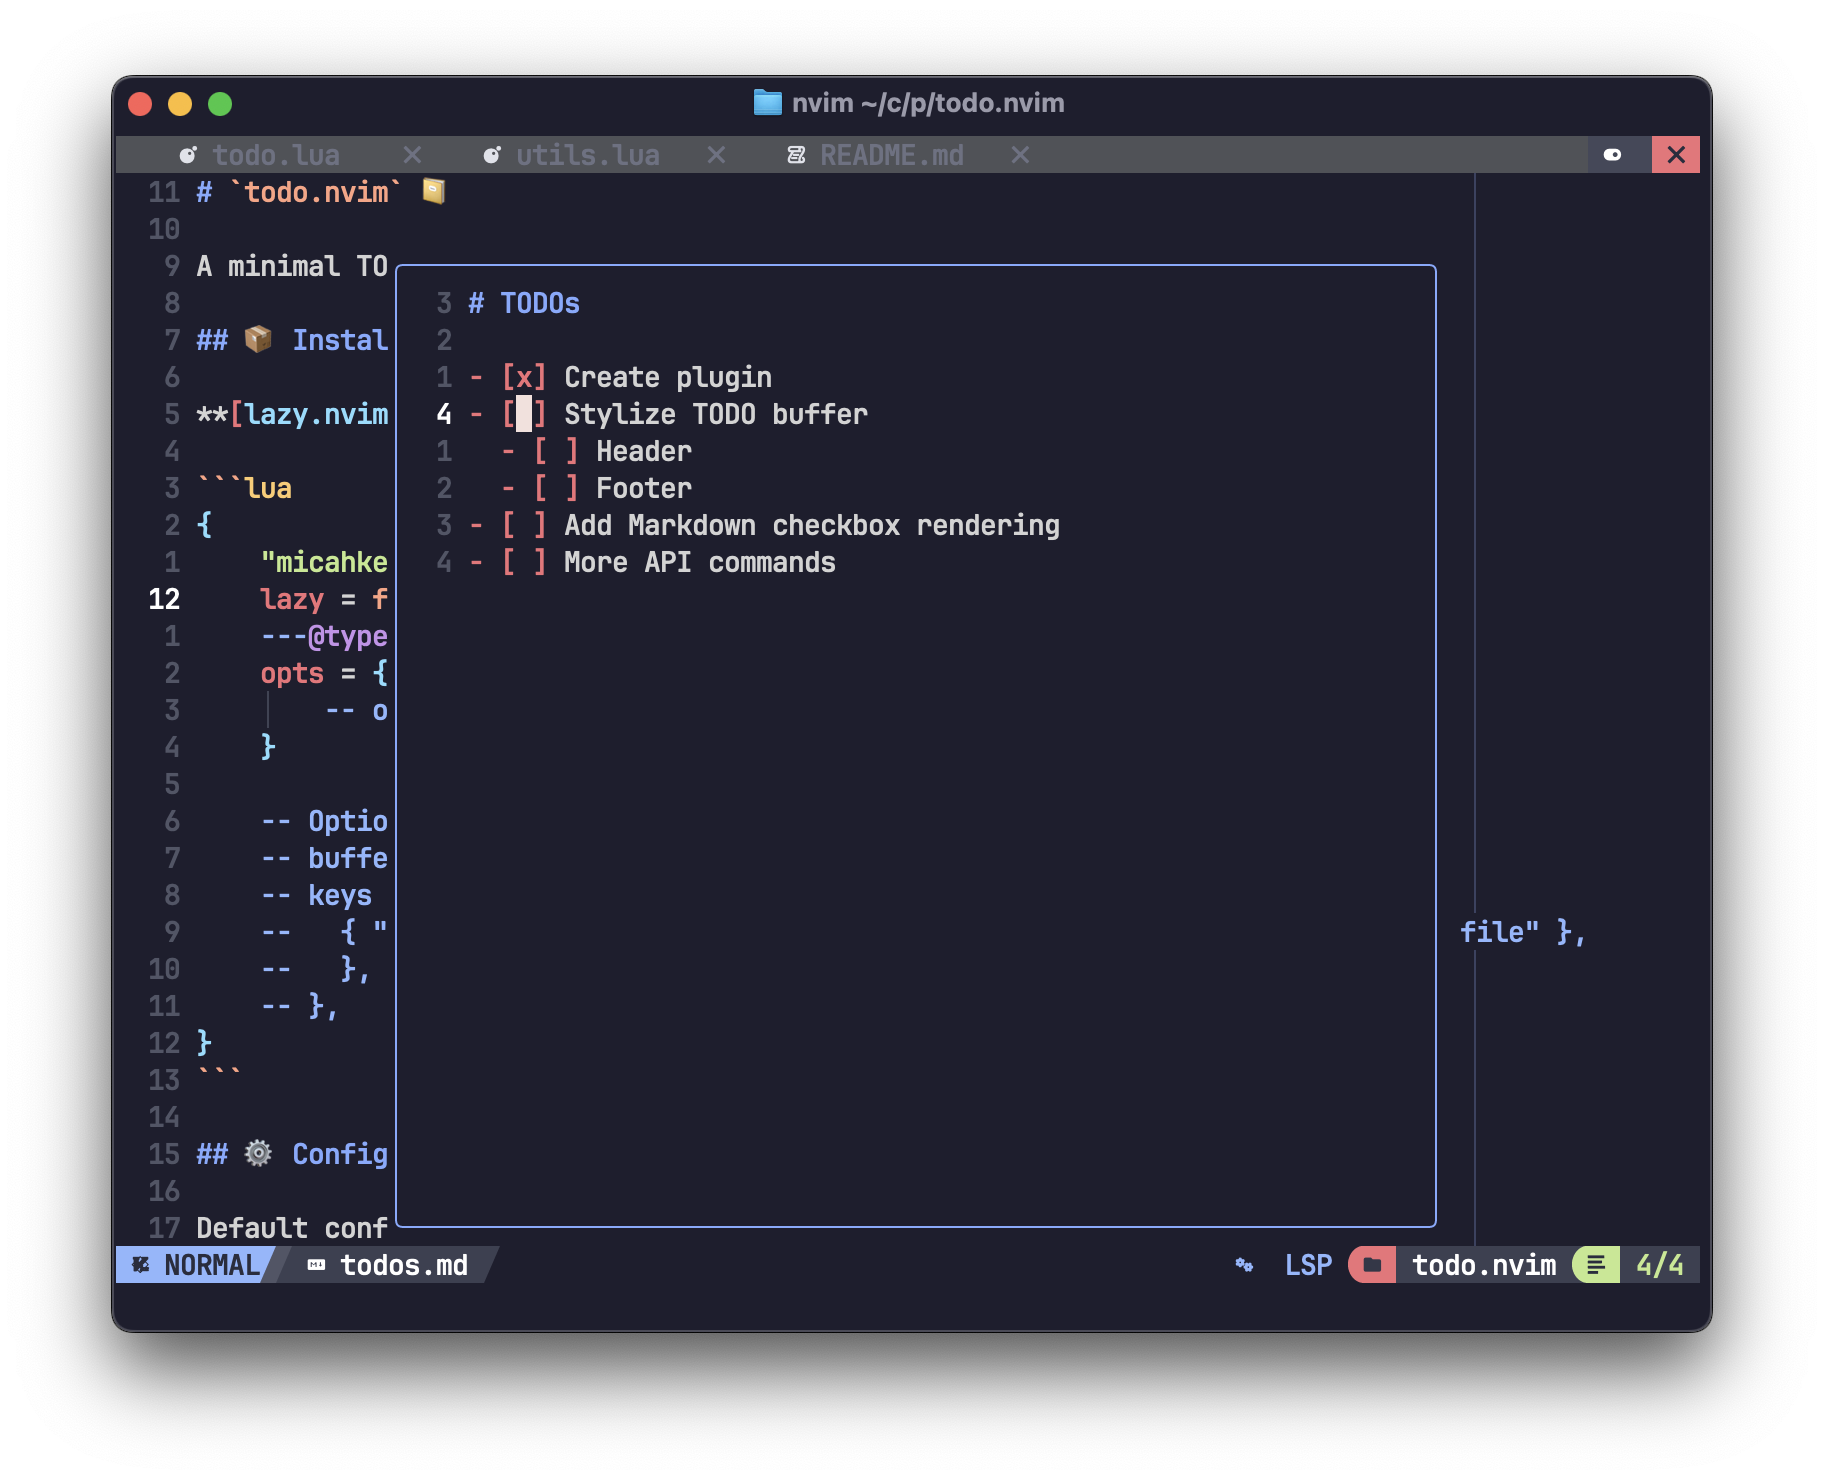
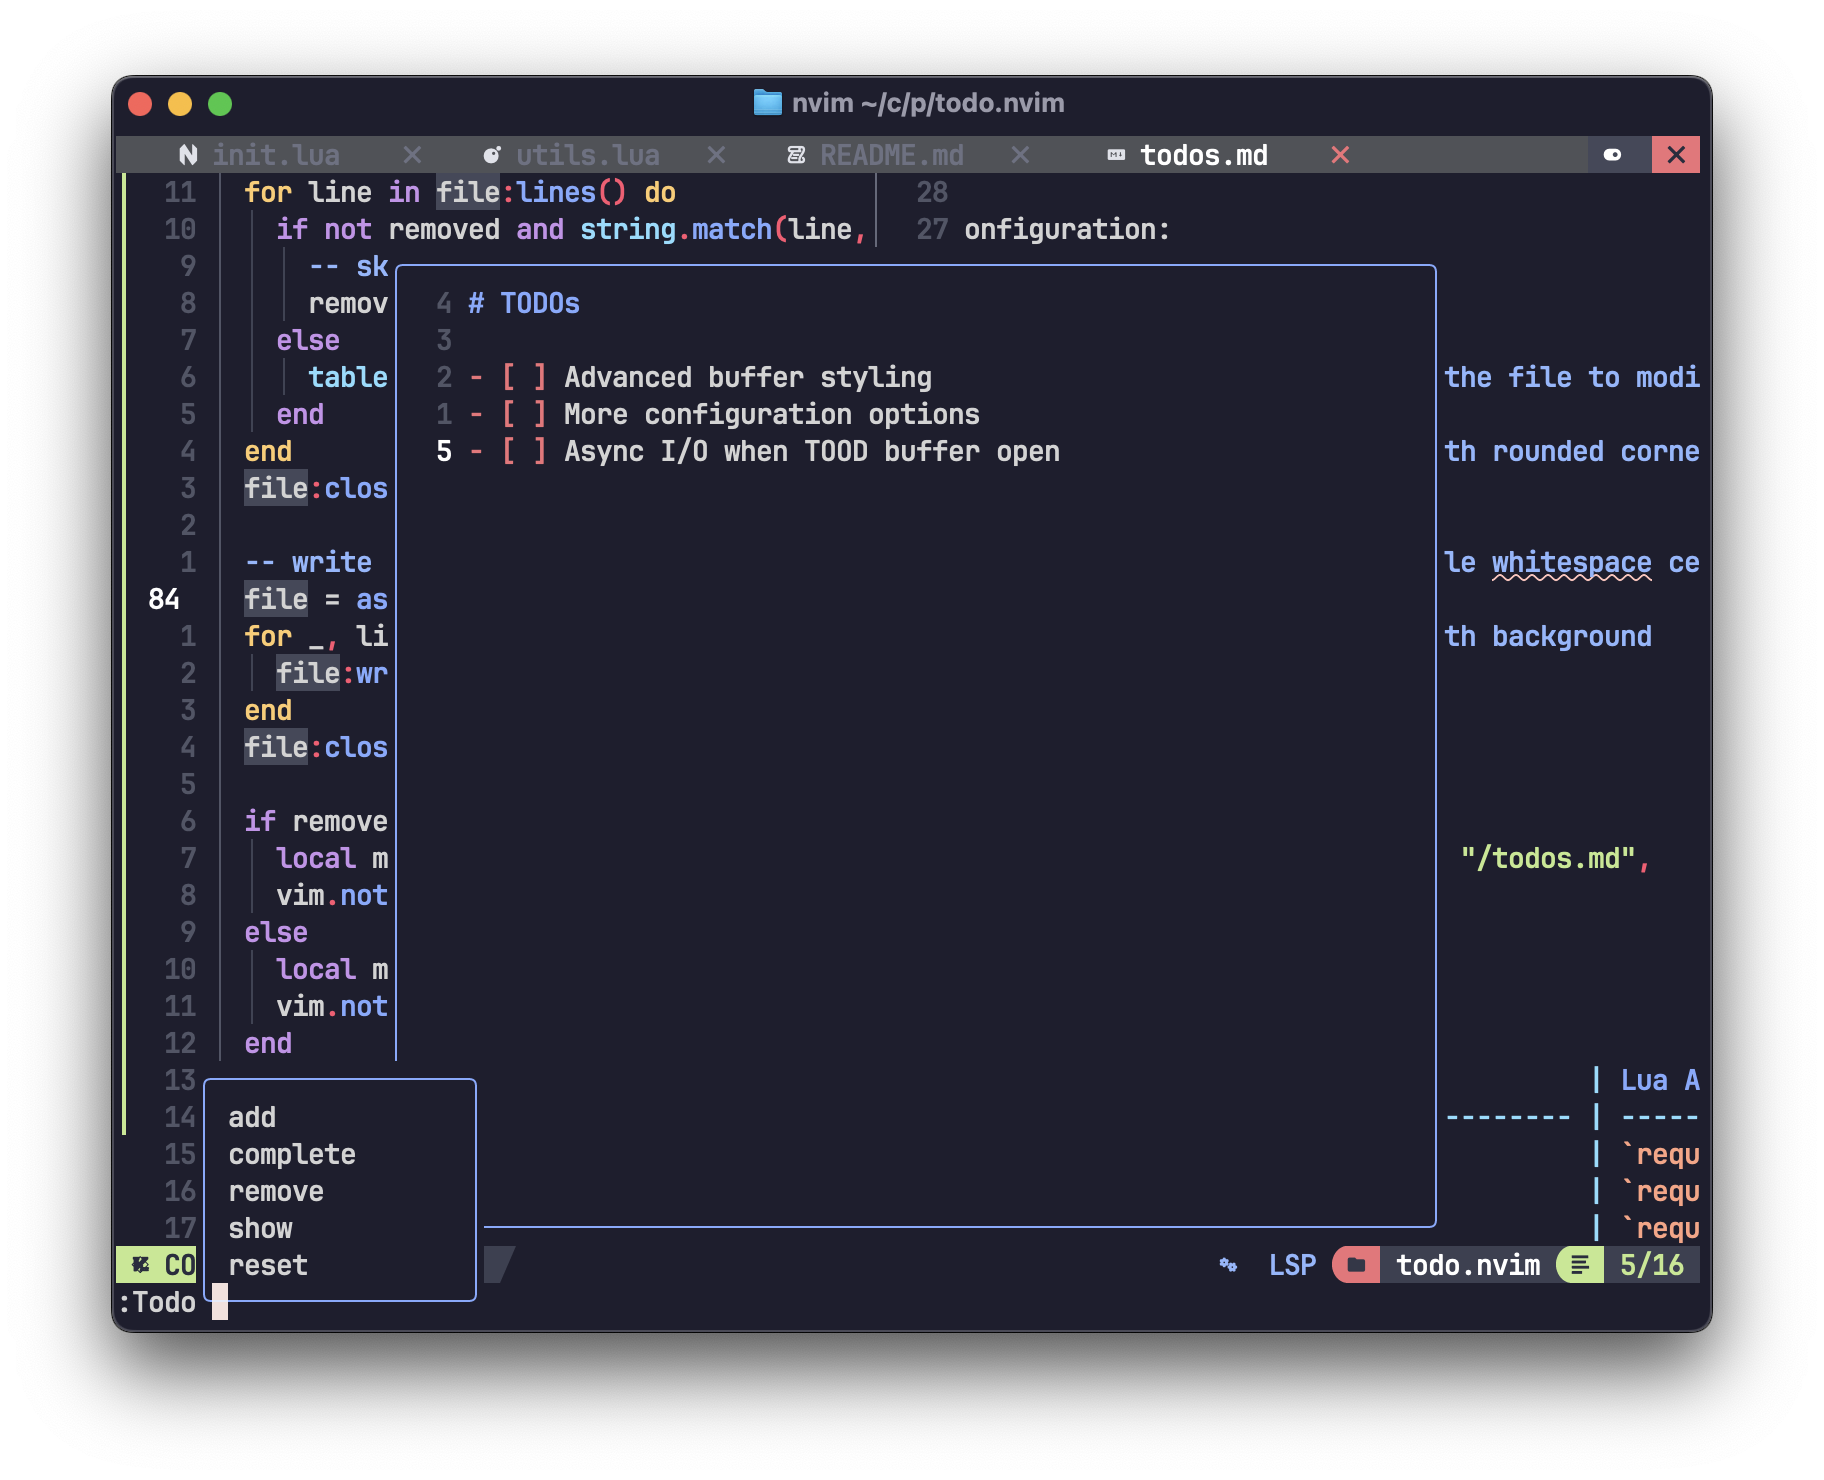
feat(commands): Add `remove`, `complete`; refactor `add` and `clear-> reset`

diff --git a/README.md b/README.md
@@ -54,22 +54,27 @@ local config = {
 
 ## ✍ Usage
 
-| Command                                   | Lua API                   | Description                                    |
-| ----------------------------------------- | ------------------------- | ---------------------------------------------- |
-| `:Todo` or `:Todo open`                   | `require("todo").open()`  | Opens your TODO buffer                         |
-| `:Todo add`                               | `require("todo").add()`   | Add prompt item to list                        |
-| `:Todo show [completed \| undone \| all]` | `require("todo").show()`  | Print out TODOs, optionally filtering by state |
-| `:Todo clear`                             | `require("todo").clear()` | Clears all TODOs from the file                 |
+| Command                                       | Lua API                      | Description                                               |
+| --------------------------------------------- | ---------------------------- | --------------------------------------------------------- |
+| `:Todo`                                       | `require("todo").open()`     | Opens your TODO buffer                                    |
+| `:Todo add <desc>`                            | `require("todo").add()`      | Add TODO item to list                                     |
+| `:Todo remove <desc>`                         | `require("todo").remove()`   | Remote TODO item to list                                  |
+| `:Todo complete <desc>`                       | `require("todo").complete()` | Mark the item with the given description as complete      |
+| `:Todo show [completed \| incomplete \| all]` | `require("todo").show()`     | Notification list of TODOs, optionally filtering by state |
+| `:Todo reset`                                 | `require("todo").reset()`    | Clears all TODOs from the file                            |
 
 The TODO buffer can be closed by pressing `q` inside the floating window.
 
 ## 🗺 TODOs
 
+(meta, I know)
+
 - [x] Floating window for TODO file
 - [x] Clear/reset TODOs
+- [x] Mark as done/ archive
+- [x] Add new items from the command line
 - [ ] Enhanced buffer styling + advanced configuration options
-- [ ] Add new items from the command line
-- [ ] Mark as done/ archive
+- [ ] Async/ deferred functions for active TODO buffer
 - [ ] Testing
 
 ---
